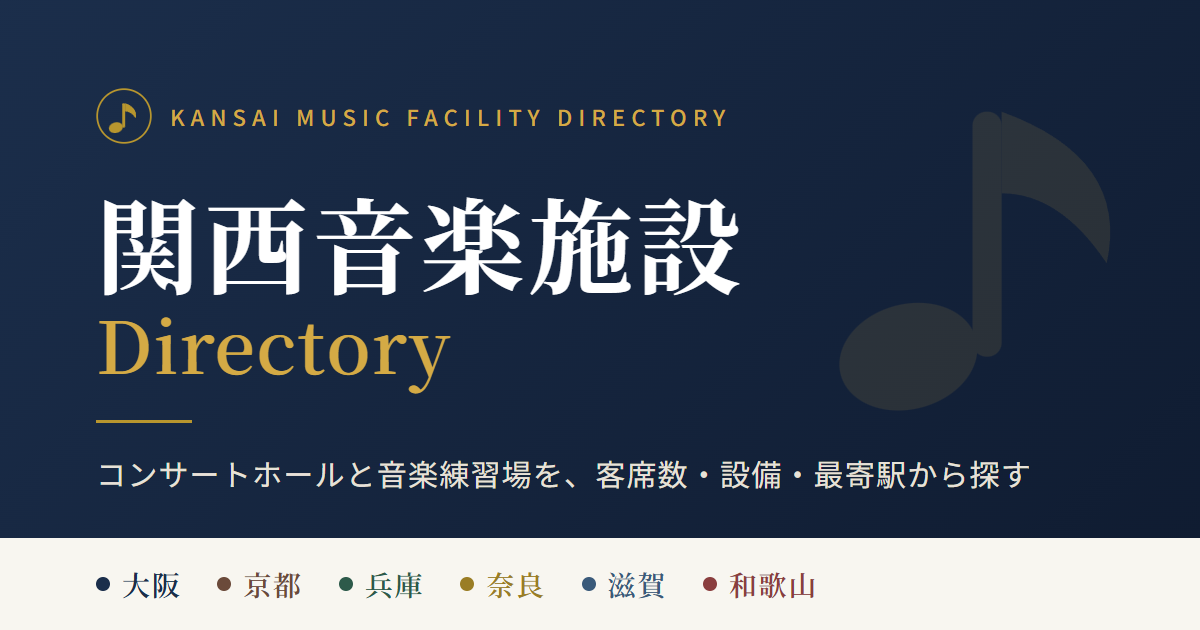
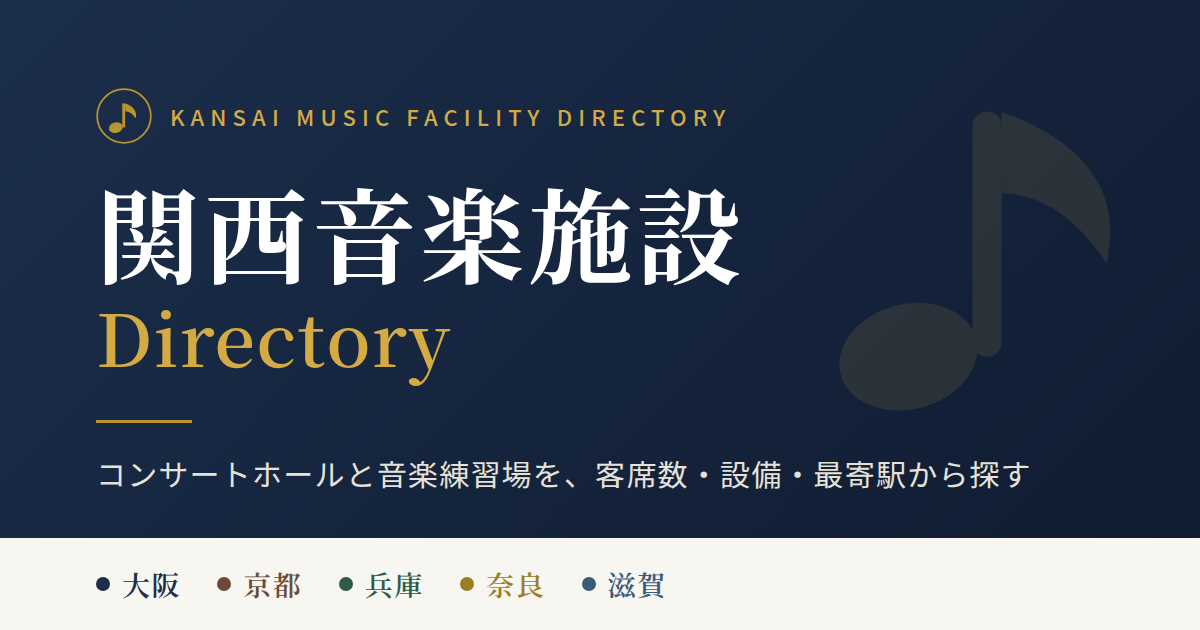
説明文が名乗る府県を、載っている施設に合わせる
サイトの説明文（meta description・OGP・一覧の見出し）は「大阪・京都・兵庫・
奈良・滋賀・和歌山」と6府県を名乗っていたが、和歌山県の施設は1件も無い。
検索結果から来た人には「和歌山があるはず」に見えるうえ、一覧には押すと
必ず0件になる府県のピルが並んでいた（前のコミットでピルはデータ駆動にした）。

- static-pages.mjs に DESCRIBED_PREFS を置き、SITE_DESCRIPTION をそこから作る
- index.html の控え（dev サーバーだけが読む）も揃える
- 一覧の見出しからは府県の数を落とす。載っている府県はデータで変わる
- OGP 画像の原稿から和歌山のチップを外し、public/ogp.png を作り直した
  （原稿どおり dev サーバーで開いて 1200×630 に切り出したもの。
  **窓の高さを 630 ちょうどにすると府県の帯が落ちる**ので、その旨を原稿と
  CLAUDE.md に書き足した）

**受け入れる府県は6府県のまま**（validate.mjs の PREF_BOX）。ここは
「いま載っているもの」で、data と食い違えば check-dist.mjs が止める
（和歌山の施設を足したときも、名乗り忘れで止まる）。

Claude-Session: https://claude.ai/code/session_01Jhro31j1MHU6WuPYfNjkj2

diff --git a/design/ogp/ogp.html b/design/ogp/ogp.html
@@ -2,6 +2,8 @@
 <!--
   OGP 画像（SNS に URL を貼ったときのカード）の原稿。1200×630。
   これをブラウザで開いて PNG に書き出し、public/ogp.png としてコミットする。
+  **窓の高さを 630 ちょうどにすると、下端の府県の帯（92px）が入らないことがある**
+  （窓の高さと表示領域の高さは一致しない）。広めに開いて 1200×630 に切り出す。
   色は src/styles/tokens.css、マークは public/favicon.svg と同じもの。
   **tokens.css の色を変えたら、ここも合わせて PNG を作り直す**（画像は CSS 変数を読めない）
 -->
@@ -179,8 +181,11 @@
         <span class="card__pref" style="--accent: #6b4a3a">京都</span>
         <span class="card__pref" style="--accent: #2d5a4a">兵庫</span>
         <span class="card__pref" style="--accent: #9a7d25">奈良</span>
+        <!--
+          並べるのは施設のある府県（static-pages.mjs の DESCRIBED_PREFS と同じ）。
+          和歌山の施設は1件も無いので外してある。臙脂（#8a3e3e）は tokens.css に残っている
+        -->
         <span class="card__pref" style="--accent: #3a5a7a">滋賀</span>
-        <span class="card__pref" style="--accent: #8a3e3e">和歌山</span>
       </div>
     </div>
   </body>

diff --git a/index.html b/index.html
@@ -5,9 +5,13 @@
     <link rel="icon" type="image/svg+xml" href="/favicon.svg" />
     <meta name="viewport" content="width=device-width, initial-scale=1.0" />
     <title>関西音楽施設ディレクトリ</title>
+    <!--
+      ページごとのHTMLではビルドが差し替える（scripts/static-pages.mjs の SITE_DESCRIPTION）。
+      ここを読むのは dev サーバーだけだが、食い違ったままにならないよう check-dist.mjs が見ている
+    -->
     <meta
       name="description"
-      content="関西（大阪・京都・兵庫・奈良・滋賀・和歌山）のコンサートホールと音楽練習場を、客席数・舞台寸法・設備・最寄駅から探せる非公式のディレクトリです。"
+      content="関西（大阪・京都・兵庫・奈良・滋賀）のコンサートホールと音楽練習場を、客席数・舞台寸法・設備・最寄駅から探せる非公式のディレクトリです。"
     />
     <link rel="preconnect" href="https://fonts.googleapis.com" />
     <link rel="preconnect" href="https://fonts.gstatic.com" crossorigin />

diff --git a/src/pages/ConcertHallListPage.tsx b/src/pages/ConcertHallListPage.tsx
@@ -165,7 +165,8 @@ export default function ConcertHallListPage() {
       <header className="page-head">
         <p className="page-head__eyebrow">CONCERT HALLS</p>
         <h1 className="page-head__title">コンサートホール一覧</h1>
-        <p className="page-head__lead">関西6府県のホールを客席数・設備・アクセスで比較</p>
+        {/* 府県の数は書かない。載っている府県はデータで変わる（→ options.ts の prefOptions） */}
+        <p className="page-head__lead">関西のホールを客席数・設備・アクセスで比較</p>
       </header>
 
       <FilterPanel
